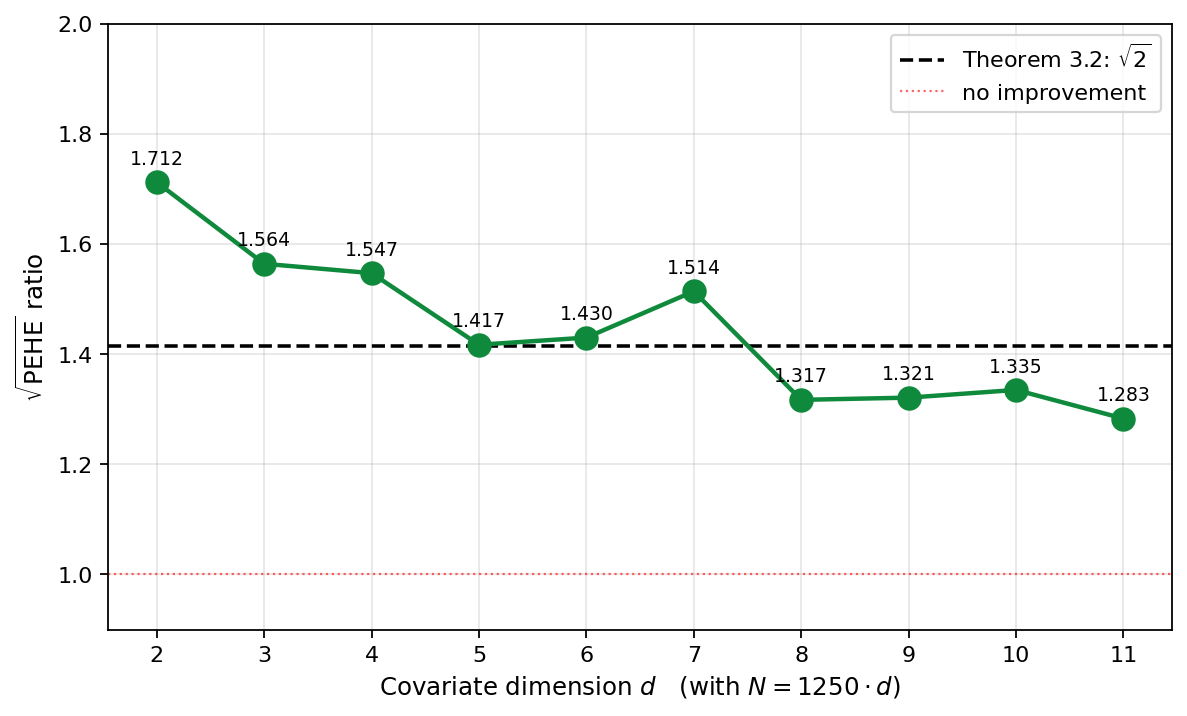
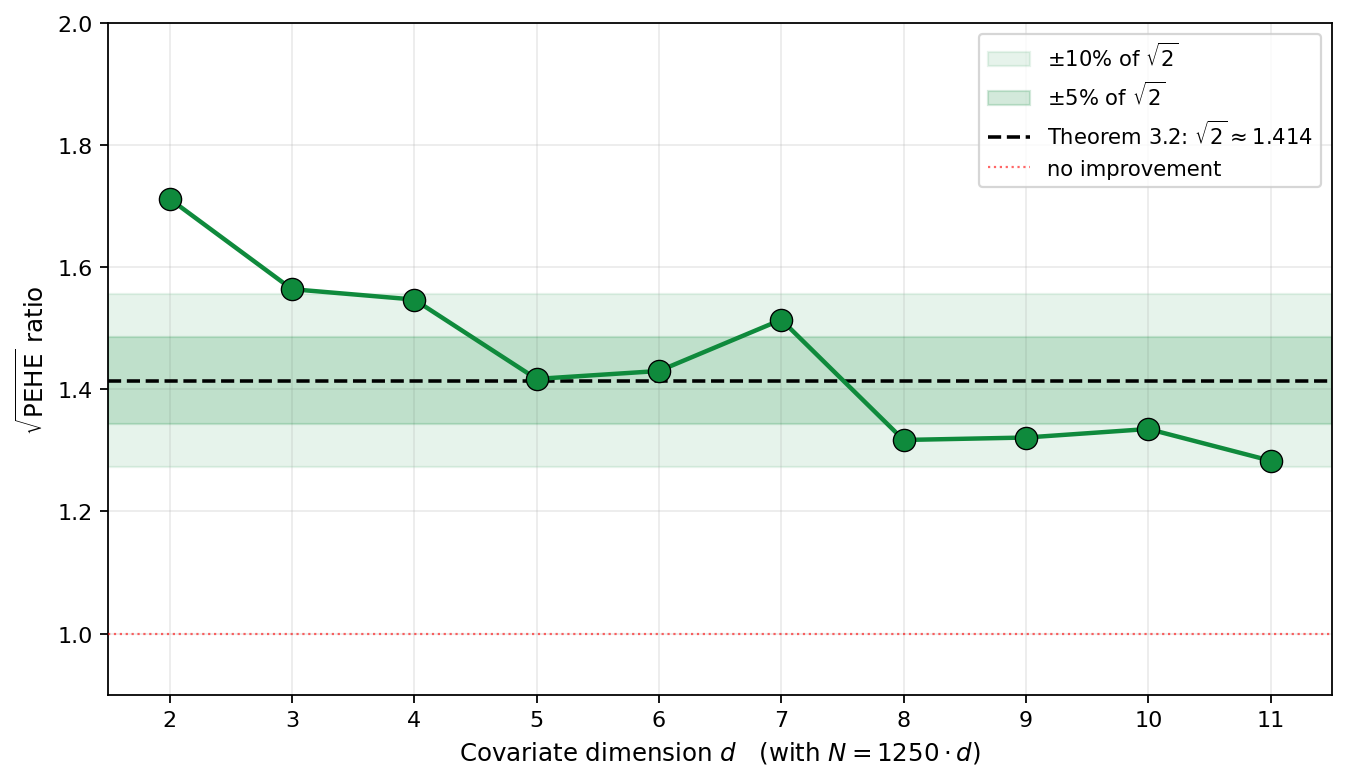
d-scaling plot: add ±5% and ±10% tolerance bands around √2
Two shaded green bands around Theorem 3.2's √2 line:
  - darker band: ±5% of √2 (roughly 1.34 to 1.48)
  - lighter band: ±10% of √2 (roughly 1.27 to 1.55)

Visual reading:
  d = 5, 6: exactly on √2
  d = 6, 7: inside ±5% band
  d = 7: at the edge of the ±10% band
  d = 3, 4, 8, 9, 10: inside ±10% band
  d = 2, 11: just outside ±10% band

No per-cell values annotated on the plot.

Changed region(s): [[0.0, 0.0, 0.9975, 0.9832]]

diff --git a/paper/theory/figures/d_scaling_law_plot.py b/paper/theory/figures/d_scaling_law_plot.py
@@ -1,5 +1,6 @@
 """Single-panel plot: √PEHE ratio at N = 1250·d for d = 2..11 with
-√2 reference line. K = 15 SCMs per cell on the controlled linear SCM.
+√2 reference line and ±5%, ±10% tolerance bands.
+K = 15 SCMs per cell on the controlled linear SCM.
 """
 import numpy as np, matplotlib.pyplot as plt
 
@@ -17,20 +18,35 @@ data = [
 ]
 d = np.array([x[0] for x in data]); r = np.array([x[2] for x in data])
 
-fig, ax = plt.subplots(figsize=(7.5, 4.6))
-ax.axhline(np.sqrt(2), color='k', ls='--', lw=1.6, label=r'Theorem 3.2: $\sqrt{2}$')
-ax.axhline(1.0, color='r', ls=':', lw=1.0, alpha=0.6, label='no improvement')
-ax.plot(d, r, 'o-', color='#0F8A3C', lw=2, markersize=10)
-for xi, yi in zip(d, r):
-    ax.annotate(f'{yi:.3f}', xy=(xi, yi), xytext=(0, 8),
-                 textcoords='offset points', ha='center', fontsize=8.5)
+sqrt2 = np.sqrt(2)
+d_lo, d_hi = 1.5, 11.5
 
-ax.set_xlabel(r'Covariate dimension $d$   (with $N = 1250 \cdot d$)', fontsize=11)
+fig, ax = plt.subplots(figsize=(8.5, 5.0))
+
+# ── Tolerance bands ──
+ax.axhspan(sqrt2 * 0.90, sqrt2 * 1.10, color='#0F8A3C', alpha=0.10,
+            label=r'$\pm 10\%$ of $\sqrt{2}$', zorder=1)
+ax.axhspan(sqrt2 * 0.95, sqrt2 * 1.05, color='#0F8A3C', alpha=0.18,
+            label=r'$\pm 5\%$ of $\sqrt{2}$', zorder=2)
+
+# ── Reference lines ──
+ax.axhline(sqrt2, color='k', ls='--', lw=1.6,
+            label=r'Theorem 3.2: $\sqrt{2} \approx 1.414$', zorder=3)
+ax.axhline(1.0, color='r', ls=':', lw=1.0, alpha=0.6,
+            label='no improvement', zorder=3)
+
+# ── Data ──
+ax.plot(d, r, 'o-', color='#0F8A3C', lw=2, markersize=10,
+         zorder=5, markeredgecolor='k', markeredgewidth=0.6)
+
+ax.set_xlabel(r'Covariate dimension $d$   (with $N = 1250 \cdot d$)',
+                fontsize=11)
 ax.set_ylabel(r'$\sqrt{\mathrm{PEHE}}$ ratio', fontsize=11)
+ax.set_xlim(d_lo, d_hi)
 ax.set_ylim(0.9, 2.0)
 ax.set_xticks(range(2, 12))
-ax.grid(alpha=0.3)
-ax.legend(loc='upper right', fontsize=10)
+ax.grid(alpha=0.25)
+ax.legend(loc='upper right', fontsize=9.5)
 
 fig.tight_layout()
 out = '/Users/furkandanisman/R-PFN/paper/theory/figures/d_scaling_law.png'
